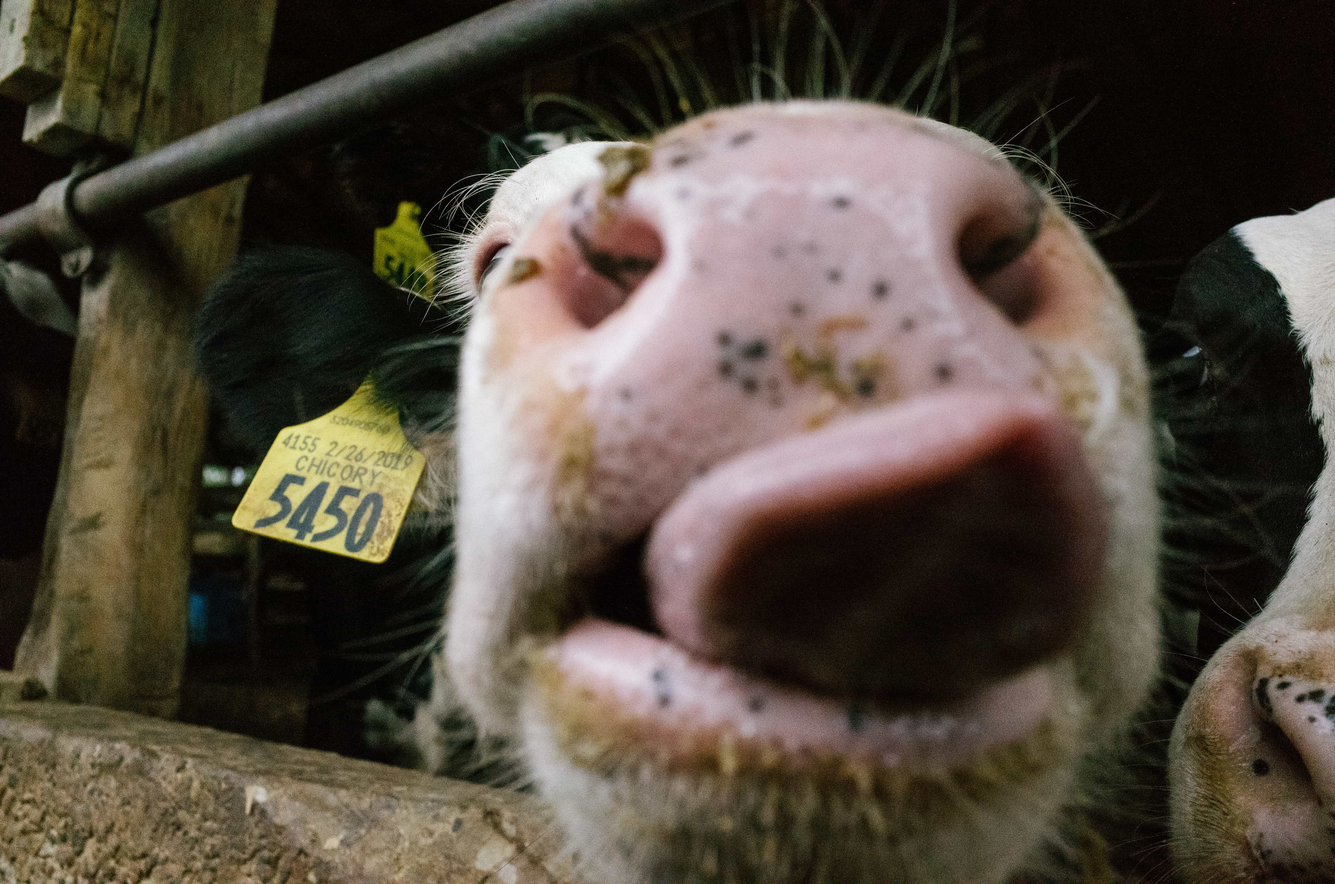
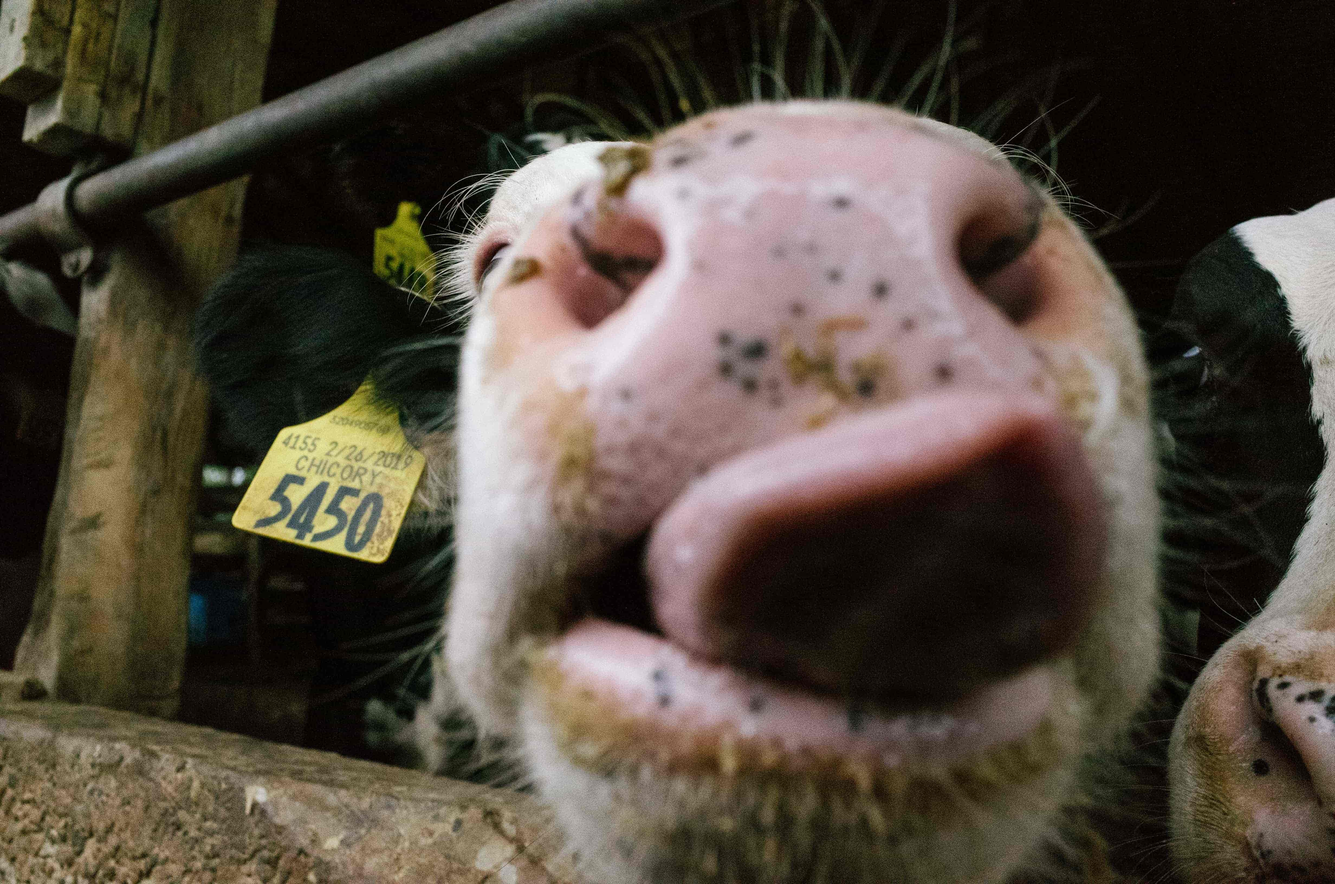
compress images

diff --git a/index.html b/index.html
@@ -25,11 +25,11 @@
 
 </head>
 
-
-<header>
+<body bgcolor='#f2f2f2'>
+	<header>
 		<div id='location'>
 	 		<a href="index.html">Nathan Drezner</a>
-	      	<div>Montreal, QC</div>
+	      	<div>Montréal, QC</div>
 	  	</div>
 
 	  	<div id='nav'>
@@ -38,16 +38,15 @@
 	  		<a class='page-link ' href='/other_work.html'>Other Work</a>
 
 		</div>
-</header>
+	</header>
+	
+	<div class = 'contact'>
+		Undergraduate at McGill University<br>
+		Researcher in cultural analytics and computational linguistics<br>
+		Abstract and portrait photographer<br><br>
 
-<body bgcolor='#f2f2f2'>
-		<div class = 'contact'>
-			Undergraduate at McGill University<br>
-			Researcher in cultural analytics and computational linguistics<br>
-			Abstract and portrait photographer<br><br>
-
-			Montreal, QC<br><br>
-		</div>
+		Montréal, QC<br><br>
+	</div>
 </body>
 
 <footer>

diff --git a/photography.html b/photography.html
@@ -15,7 +15,7 @@
 	<header>
 		<div id='location'>
 	 		<a href="index.html">Nathan Drezner</a>
-	      	<div>Montreal, QC</div>
+	      	<div>Montréal, QC</div>
 	  	</div>
 
 	  	<div id='nav'>
@@ -25,6 +25,7 @@
 
 		</div>
 	</header>
+
 	<div class = 'photoby'>
 		<p>Several photo series, all produced in 2019.</p>
 	</div>
@@ -69,6 +70,12 @@
 			<img class='photo'src="images/19.jpg">
 			<img class='photo'src="images/20.jpg">
 			<img class='photo'src="images/21.jpg">
+		</div>
+
+		<div class='image-line'>
+			<img class='photo'src="images/24.jpg">
+			<img class='photo'src="images/22.jpg">
+			<img class='photo'src="images/23.jpg">
 		</div>
 	</div>
 

diff --git a/research.html b/research.html
@@ -9,10 +9,11 @@
 </head>
 
 
-<header>
+<body bgcolor='#f2f2f2'>
+	<header>
 		<div id='location'>
 	 		<a href="index.html">Nathan Drezner</a>
-	      	<div>Montreal, QC</div>
+	      	<div>Montréal, QC</div>
 	  	</div>
 
 	  	<div id='nav'>
@@ -20,9 +21,8 @@
 	  		<a class='page-link ' href='/photography.html'>Photography</a><br>
 	  		<a class='page-link ' href='/other_work.html'>Other Work</a>
 		</div>
-</header>
-
-<body bgcolor='#f2f2f2'>
+	</header>
+	
 	<div id = 'body-text' class = 'contact'>
 		<p>I'm involved in several research projects at McGill, all of which are ongoing.<p><br><br>
 

diff --git a/other_work.html b/other_work.html
@@ -8,11 +8,11 @@
     <link rel = "stylesheet" type = "text/css" href = "css/style.css" />
 </head>
 
-
-<header>
+<body bgcolor='#f2f2f2'>
+	<header>
 		<div id='location'>
 	 		<a href="index.html">Nathan Drezner</a>
-	      	<div>Montreal, QC</div>
+	      	<div>Montréal, QC</div>
 	  	</div>
 
 	  	<div id='nav'>
@@ -21,9 +21,8 @@
 	  		<a class='page-link ' href='/other_work.html'>Other Work</a>
 
 		</div>
-</header>
-
-<body bgcolor='#f2f2f2'>
+	</header>
+	
 	<div id = 'body-text' class = 'contact'>
 		<p>I have several side projects, with more on the way.</p><br><br>
 

diff --git a/posts/2020_01_21_instagram.html b/posts/2020_01_21_instagram.html
@@ -8,11 +8,11 @@
     <link rel = "stylesheet" type = "text/css" href = "../css/style.css" />
 </head>
 
-
-<header>
+<body bgcolor='#f2f2f2'>
+	<header>
 		<div id='location'>
 	 		<a href="../index.html">Nathan Drezner</a>
-	      	<div>Montreal, QC</div>
+	      	<div>Montréal, QC</div>
 	  	</div>
 
 	  	<div id='nav'>
@@ -21,9 +21,8 @@
 	  		<a class='page-link ' href='../other_work.html'>Other Work</a>
 
 		</div>
-</header>
-
-<body bgcolor='#f2f2f2'>
+	</header>
+	
 	<div id = 'body-text' class = 'contact'>
 		<h2>Instagram Bots</h2>
 		<h4>January 21, 2020</h4>
